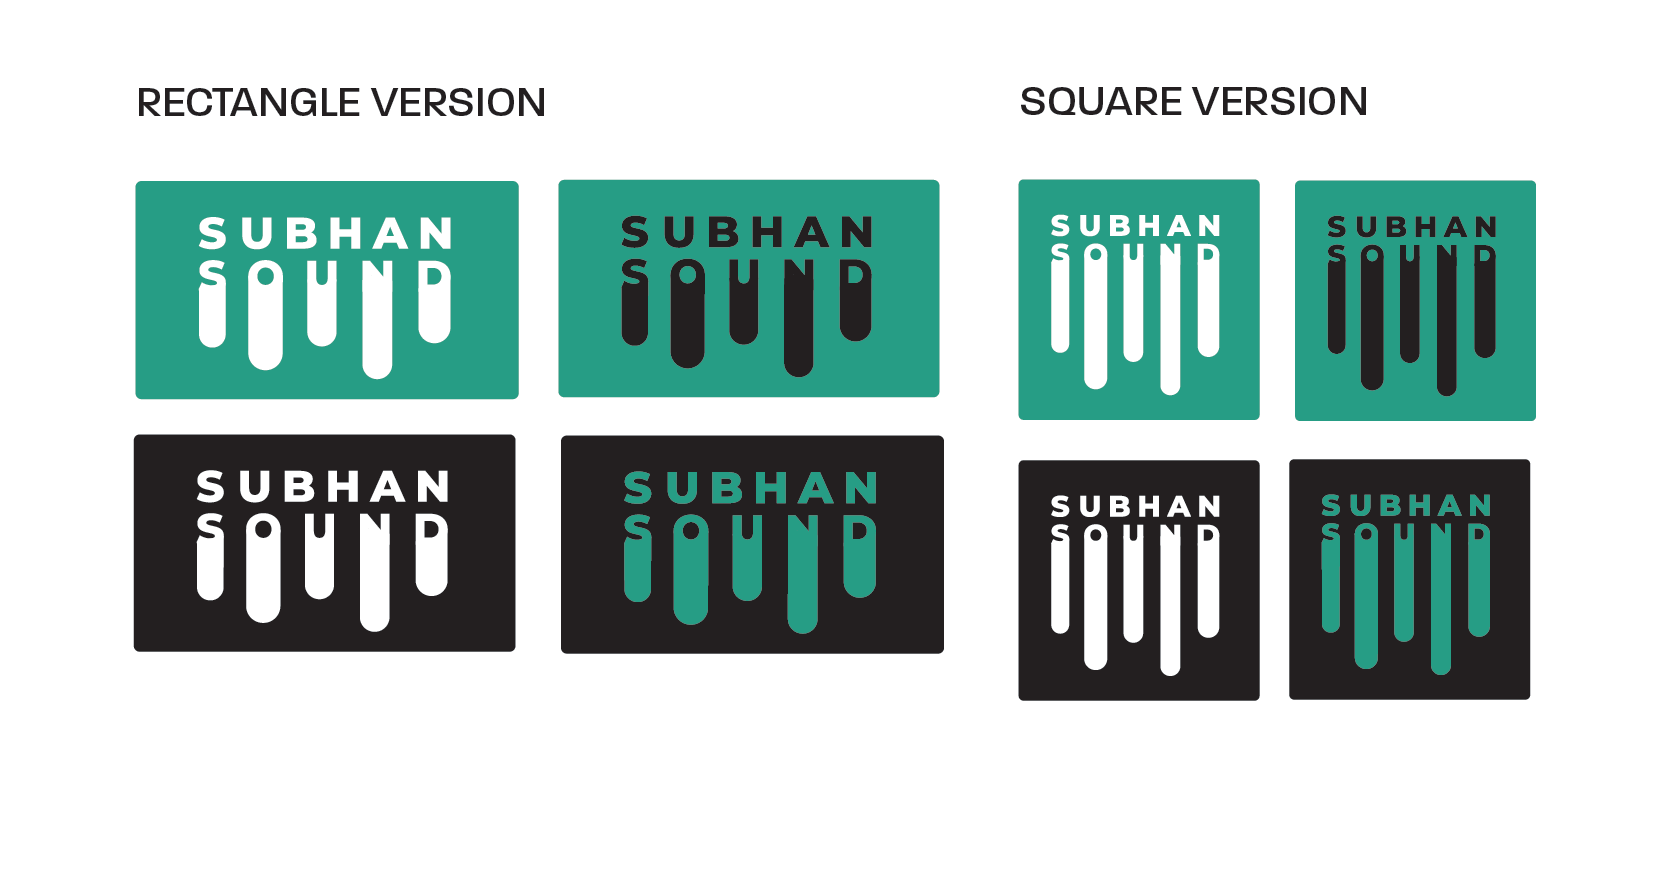
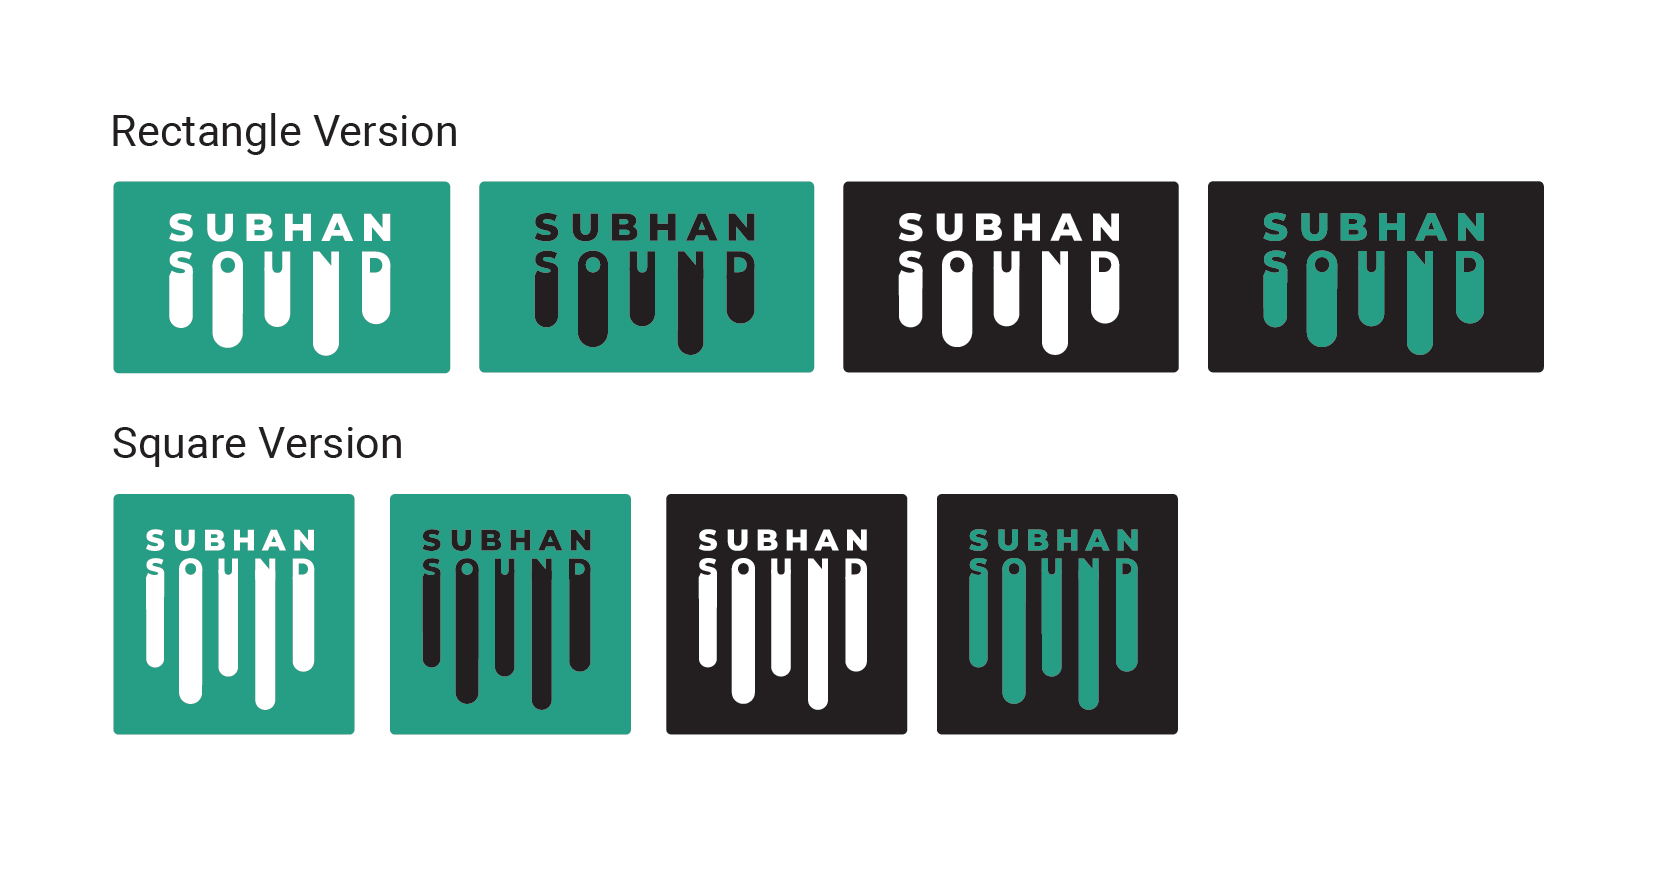
added mood board

diff --git a/logo.html b/logo.html
@@ -36,11 +36,15 @@ description: "Subhan Sound Logo work for client"
     </div>
 
     <div class="island-2">
+      <img class="img-flex" src="/images/subsound-final.png" alt="">
+    </div>
+
+    <div class="island-2">
       <img class="img-flex" src="/images/subsound-type.png" alt="">
     </div>
 
     <div class="island-2">
-      <img class="img-flex" src="/images/subsound-final.png" alt="">
+      <img class="img-flex" src="/images/moodboard.png" alt="">
     </div>
 
     <div class="island-2">
